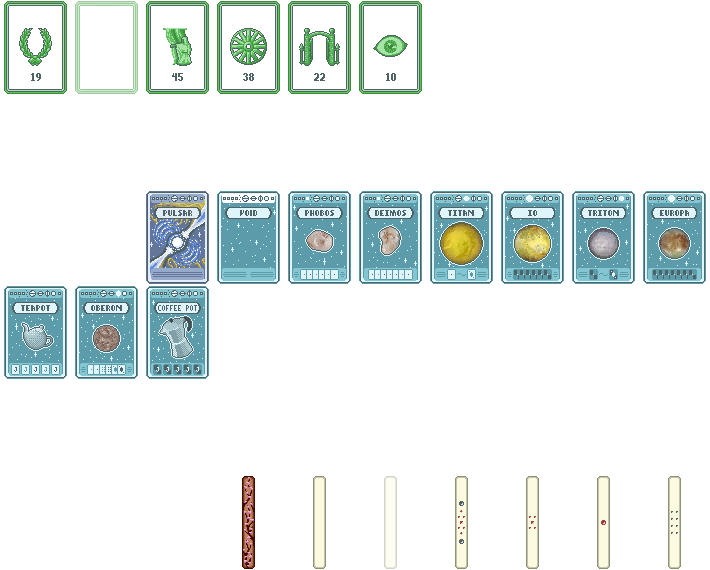
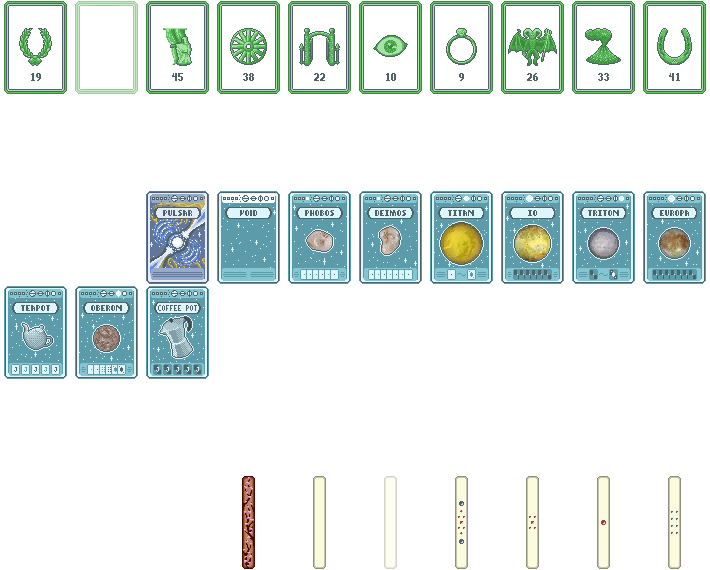
Add files via upload

Changed region(s): [[0.5887, 0.0, 1.0, 0.1789]]

diff --git a/Readme.md b/Readme.md
@@ -11,14 +11,15 @@ The following additions are currently available.
 - 15 new Jokers
 - 1 new Deck
 - 2 new Vouchers
-- 6 new Planet Cards (+ 2 secret ones)
+- 7 new Planet Cards (+ 3 secret ones)
 - 1 new Spectral Card
-- 5 Teuila Cards
+- 9 Teuila Cards
+- 6 Tenbō
 - 1 new Seal
-- 1 new Tag
+- 2 new Tags
 - 10 new Blinds
 - 1 new Sticker
-- 6 new Poker Hands (+ 2 secret ones)
+- 7 new Poker Hands (+ 3 secret ones)
 - 4 new Challenges
 
 It also changes a few mechanics that will affect vanilla Jokers; in particular, expect Four Fingers to be affected.
